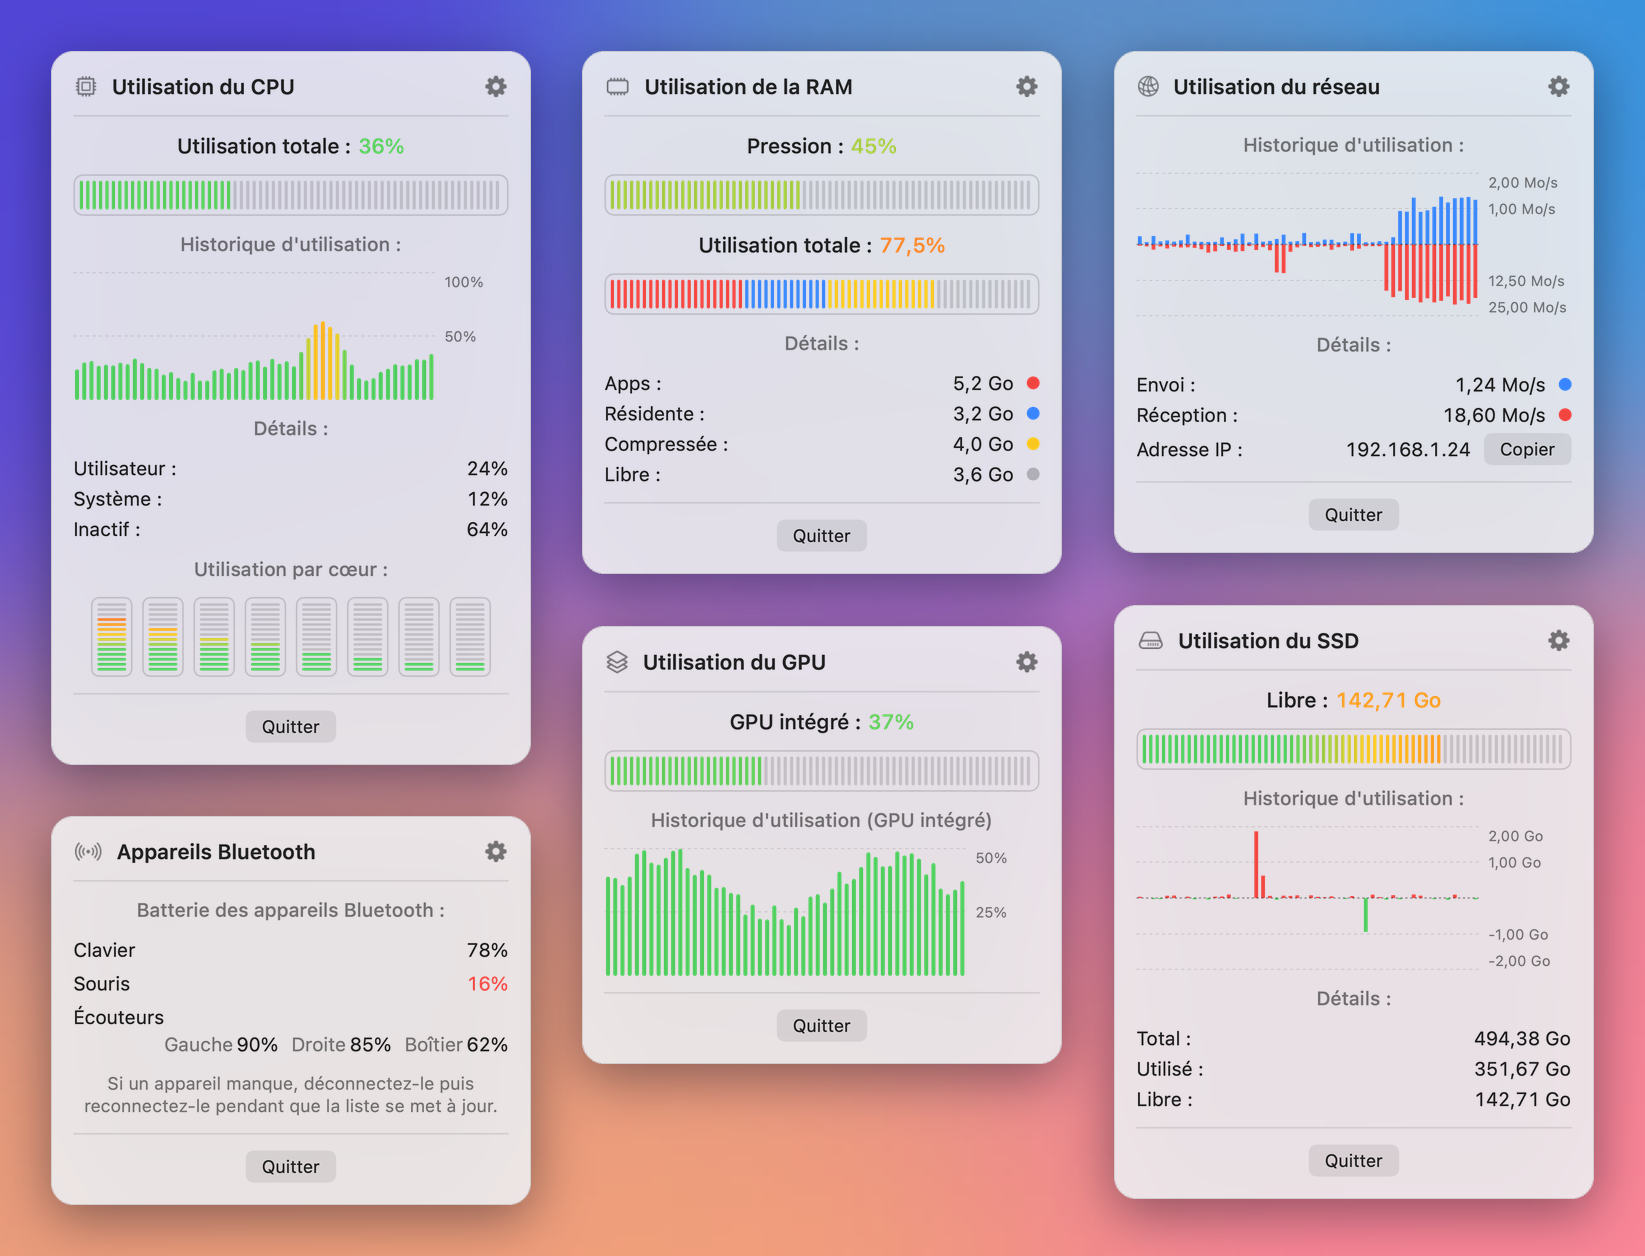
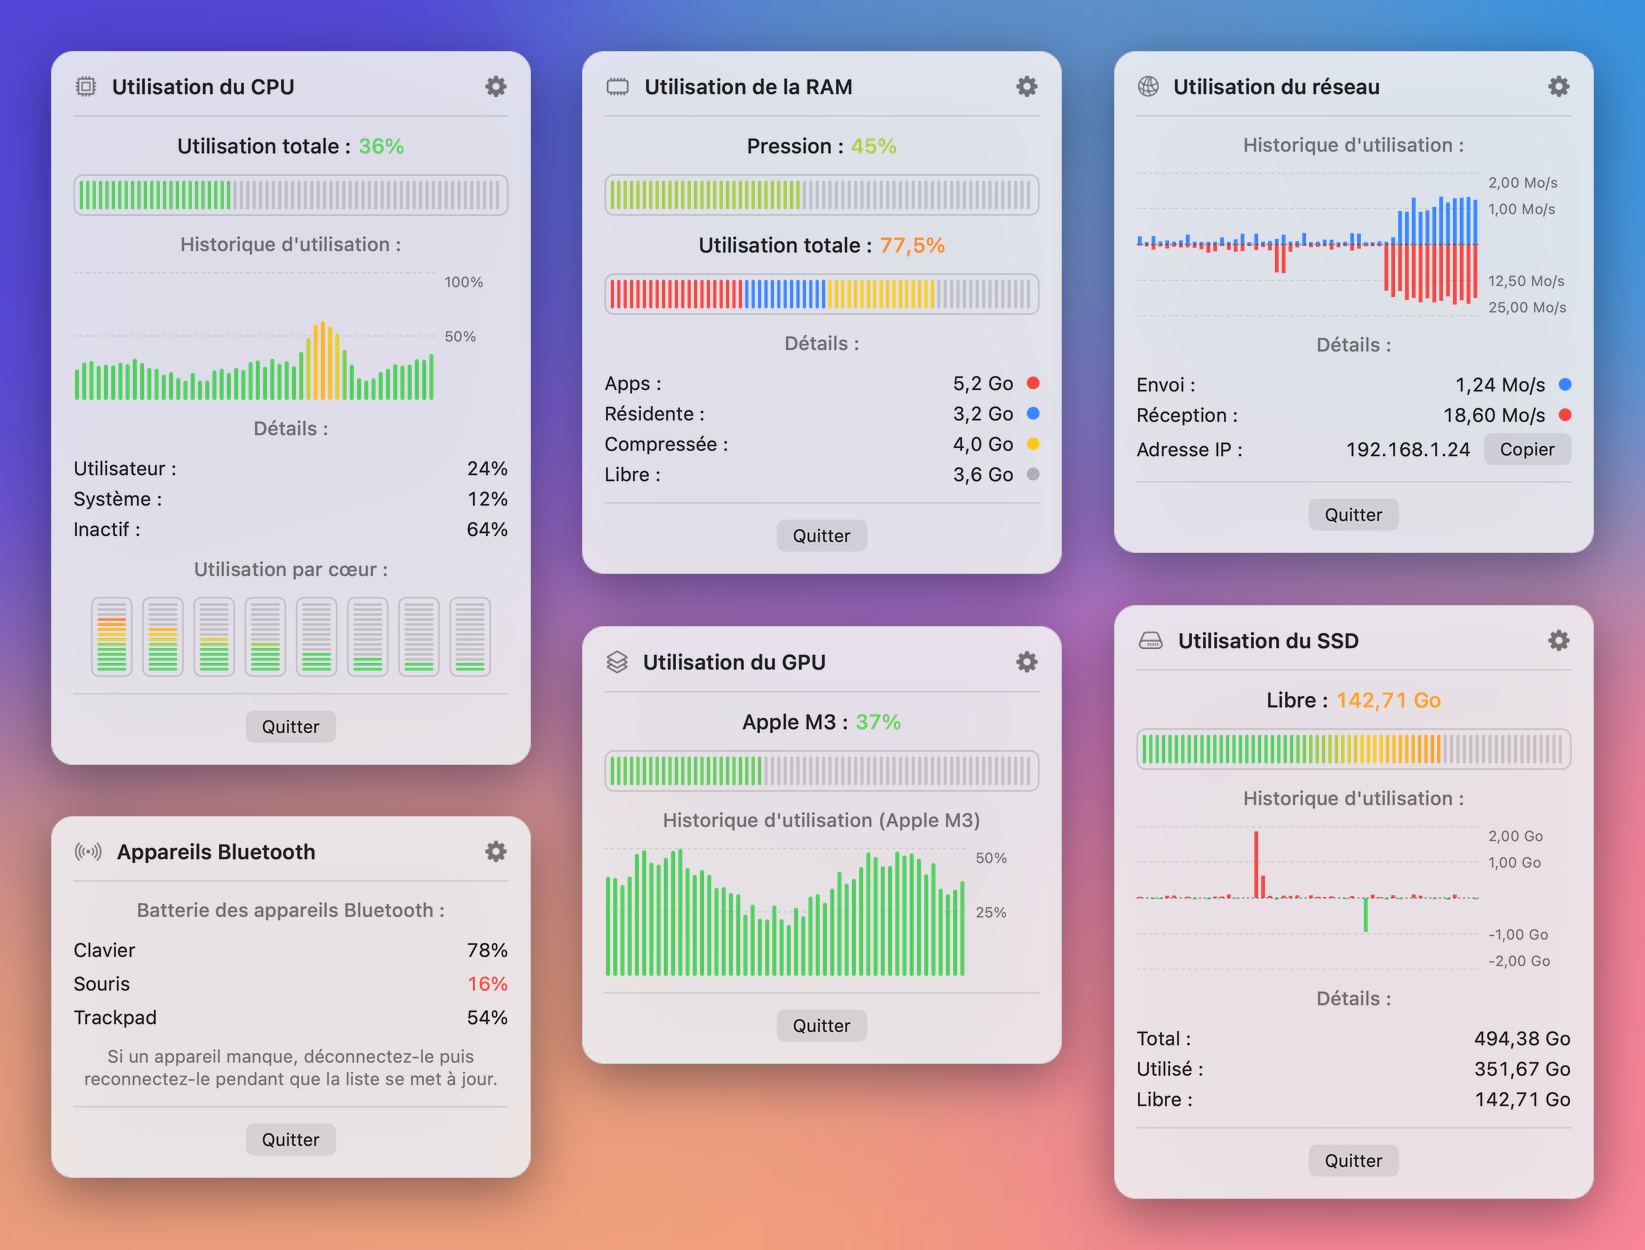
Show only battery levels the app can read in the screenshots
- Bluetooth demo devices: keyboard, mouse and trackpad with one level
  each, as BluetoothReader gives them in the App Sandbox (no left, right
  or case levels), sorted by the app's own merge
- GPU demo name: the IOKit model string, not a translated label
- Regenerate the README popup images

Claude-Session: https://claude.ai/code/session_01RwmVbmWb3gkZBCdf49WNBK

diff --git a/tools/screenshots/renderer/DemoData.swift b/tools/screenshots/renderer/DemoData.swift
@@ -3,10 +3,9 @@ import Foundation
 /// Names shown on the screenshots that are user data, not strings of the app (a disk name, a Bluetooth device):
 /// the app does not translate them, so `titles.json` carries them for each language.
 struct DemoNames: Decodable {
-    var gpu: String
     var keyboard: String
     var mouse: String
-    var earbuds: String
+    var trackpad: String
     var system: String
     var photos: String
     var backup: String
@@ -40,17 +39,19 @@ struct DemoData {
     let gpuUtilization = 0.37
     let localIP = "192.168.1.24"
 
-    var gpus: [GPUSample] { [GPUSample(model: names.gpu, utilization: gpuUtilization)] }
+    /// The IOKit model string, as `GPUReader` reads it on a Mac with 8 CPU cores: never translated.
+    let gpuModel = "Apple M3"
 
+    var gpus: [GPUSample] { [GPUSample(model: gpuModel, utilization: gpuUtilization)] }
+
+    /// Only what `BluetoothReader` gives inside the App Sandbox: one level per device (`.main`), as keyboards, mice
+    /// and trackpads publish it (`BatteryPercent`). Its own merge sorts them by name in the language shown.
     var bluetoothDevices: [BluetoothDevice] {
-        [
+        BluetoothReader.merge([[
             BluetoothDevice(name: names.keyboard, levels: [.init(part: .main, percent: 78)]),
             BluetoothDevice(name: names.mouse, levels: [.init(part: .main, percent: 16)]),
-            // Earbuds report each side and the case, which shows how the popup lays out several levels.
-            BluetoothDevice(name: names.earbuds, levels: [
-                .init(part: .left, percent: 90), .init(part: .right, percent: 85), .init(part: .caseBattery, percent: 62),
-            ]),
-        ]
+            BluetoothDevice(name: names.trackpad, levels: [.init(part: .main, percent: 54)]),
+        ]])
     }
 
     var volumes: [VolumeSample] {

diff --git a/tools/screenshots/compose.py b/tools/screenshots/compose.py
@@ -30,7 +30,7 @@ APPSTORE_SIZE = (2880, 1800)
 TITLE_WIDTH = APPSTORE_SIZE[0] - 320  # widest title line, in pixels
 # Long dashes are refused in every text of the set (written as code points so this file holds none).
 FORBIDDEN_DASHES = {chr(0x2014): "em dash", chr(0x2013): "en dash", chr(0x2015): "horizontal bar"}
-DEMO_KEYS = ["gpu", "keyboard", "mouse", "earbuds", "system", "photos", "backup", "archive"]
+DEMO_KEYS = ["keyboard", "mouse", "trackpad", "system", "photos", "backup", "archive"]
 RTL_LANGUAGES = {"ar", "he", "fa", "ur"}
 # Language of the app (its .lproj and titles.json key) to language of the Mac App Store listing, which names the
 # folder of its screenshots (interne/appstore-metadata/version/1.0/<code>.json). Codes not listed are the same.
